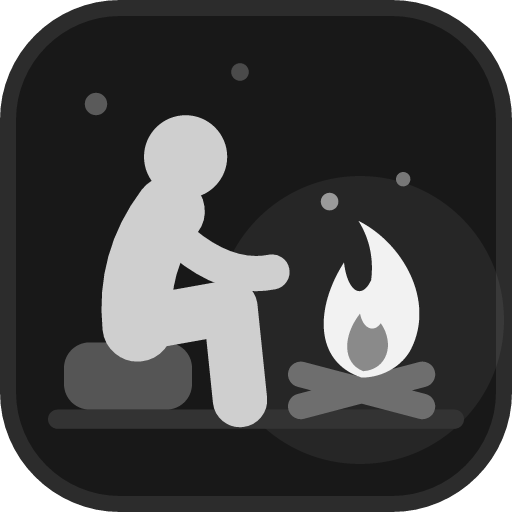
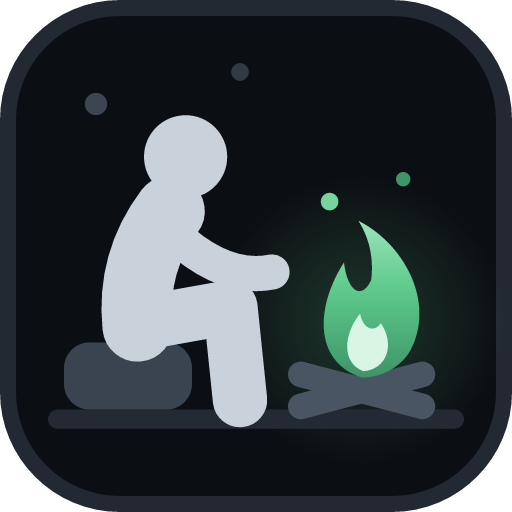
feat(web): cool blue-gray palette with a green accent
Surfaces move to darker cool grays, the accent to a soft green, strings
to a cool blue. New tokens: --primary for the filled button, --chart for
the activity curve, --bg-cursor for the cursor of a flat list. The brand
mark and the app icons take the palette, the flame in shades of the
accent; theme-color and the app colour follow the new surfaces.

Changed region(s): [[0.4375, 0.3125, 0.9688, 0.9062], [0.125, 0.6562, 0.375, 0.8125], [0.1562, 0.1875, 0.2188, 0.2188]]

diff --git a/internal/adapters/web/static/css/60-mr.css b/internal/adapters/web/static/css/60-mr.css
@@ -33,8 +33,8 @@
       display: inline-flex; align-items: center; height: 24px; padding: 0 var(--s3); border-radius: 999px;
       font-weight: 650; color: var(--ink-hi); background: var(--bg-raised); border: 1px solid var(--border-strong);
     }
-    & .show-kv dd.mr-state[data-state="open"] { color: var(--teal); border-color: color-mix(in srgb, var(--teal) 50%, transparent); background: color-mix(in srgb, var(--teal) 10%, transparent); }
-    & .show-kv dd.mr-state[data-state="merged"] { color: var(--teal); }
+    & .show-kv dd.mr-state[data-state="open"] { color: var(--green); border-color: color-mix(in srgb, var(--green) 50%, transparent); background: color-mix(in srgb, var(--green) 10%, transparent); }
+    & .show-kv dd.mr-state[data-state="merged"] { color: var(--green); }
     & .show-kv dd.mr-state[data-state="closed"] { color: var(--red); border-color: color-mix(in srgb, var(--red) 50%, transparent); }
     /* the label of a fact reads as a word before it */
     & .show-kv dd[data-k]::before { content: attr(data-k) " "; color: var(--ink-mute); }
@@ -72,8 +72,8 @@
   .merge-settings { font-size: var(--fs-s); color: var(--ink-dim); }
   .merge-settings h2 { font-size: var(--fs-s); }
 
-  .mr-state[data-state="open"]::before { content: "●\00a0"; color: var(--teal); }
-  .mr-state[data-state="merged"]::before { content: "✓ "; color: var(--teal); }
+  .mr-state[data-state="open"]::before { content: "●\00a0"; color: var(--green); }
+  .mr-state[data-state="merged"]::before { content: "✓ "; color: var(--green); }
   .mr-state[data-state="closed"]::before { content: "✗ "; color: var(--red); }
   .mr-state[data-state="draft"]::before { content: "◌ "; color: var(--ink-dim); }
   /* the description: Markdown as a README, as wide as the header card above;
@@ -164,8 +164,8 @@
     & .btn:disabled { opacity: .5; cursor: not-allowed; }
   }
   .badge[data-state] { display: inline-block; padding: 0 var(--s2); border: 1px solid var(--border-strong); border-radius: var(--r-s); font-weight: 600; color: var(--ink-hi); }
-  .badge[data-state="up_to_date"] { border-color: var(--teal); color: var(--teal); }
-  .badge[data-state="behind"] { border-color: var(--teal-2); }
+  .badge[data-state="up_to_date"] { border-color: var(--green); color: var(--green); }
+  .badge[data-state="behind"] { border-color: var(--green-2); }
   .badge[data-state="conflict"] { border-color: var(--red); color: var(--red); }
   .badge[data-state="checking"] { color: var(--ink-dim); border-style: dashed; }
   .note[role="status"] { color: var(--ink-dim); }
@@ -223,7 +223,7 @@
     & a:hover { background: var(--bg-raised); }
     & .v-who { font-weight: 600; color: var(--ink-hi); overflow: hidden; text-overflow: ellipsis; }
     & .v-label { font-size: var(--fs-xs); font-weight: 600; color: var(--ink-dim); white-space: nowrap; }
-    & li[data-verdict="approve"] .v-label { color: var(--teal); }
+    & li[data-verdict="approve"] .v-label { color: var(--green); }
     & li[data-verdict="approve"] .v-label::before { content: "✓ "; }
     & li[data-verdict="changes_requested"] .v-label { color: var(--red); }
     & li[data-verdict="changes_requested"] .v-label::before { content: "✕ "; }
@@ -280,7 +280,7 @@
     & .c-when:hover { color: var(--ink-hi); text-decoration: underline; }
     & .c-where { font-family: var(--mono); font-size: var(--fs-xs); overflow-wrap: anywhere; }
     & .c-tag { font-size: var(--fs-xs); }
-    & .c-state[data-state="resolved"] { color: var(--teal); border-color: transparent; padding-inline: 0; }
+    & .c-state[data-state="resolved"] { color: var(--green); border-color: transparent; padding-inline: 0; }
     & .c-state[data-state="resolved"]::before { content: "✓"; }
 
     & .c-tools { display: flex; align-items: center; gap: 2px; flex: none; }
@@ -370,13 +370,13 @@
     font-size: var(--fs-xs); font-weight: 600; border-radius: 999px; white-space: nowrap;
     color: var(--ink-dim); border: 1px solid var(--border-strong);
   }
-  .c-verdict[data-verdict="approve"] { color: var(--teal); border-color: color-mix(in srgb, var(--teal) 55%, transparent); background: color-mix(in srgb, var(--teal) 10%, transparent); }
+  .c-verdict[data-verdict="approve"] { color: var(--green); border-color: color-mix(in srgb, var(--green) 55%, transparent); background: color-mix(in srgb, var(--green) 10%, transparent); }
   .c-verdict[data-verdict="changes_requested"] { color: var(--red); border-color: color-mix(in srgb, var(--red) 55%, transparent); background: color-mix(in srgb, var(--red) 10%, transparent); }
   .c-verdict[data-verdict="approve"]::before { content: "✓"; }
   .c-verdict[data-verdict="changes_requested"]::before { content: "✕"; }
 
   #mr-verdict-fact .c-verdict { text-decoration: none; }
-  #mr-verdict-fact .c-verdict[data-verdict="approve"] { color: var(--teal); }
+  #mr-verdict-fact .c-verdict[data-verdict="approve"] { color: var(--green); }
   #mr-verdict-fact .c-verdict[data-verdict="changes_requested"] { color: var(--red); }
 
   /* the forms: a comment, a new merge request */
@@ -418,7 +418,7 @@
       & input { position: absolute; opacity: 0; width: 1px; height: 1px; pointer-events: none; }
       & label:has(:focus-visible) { outline: 2px solid var(--focus); outline-offset: 1px; }
       & label:has(:checked) { background: var(--bg-strong); color: var(--ink-hi); box-shadow: 0 0 0 1px var(--border-strong); }
-      & label[data-verdict="approve"]:has(:checked) { color: var(--teal); box-shadow: 0 0 0 1px color-mix(in srgb, var(--teal) 60%, transparent); }
+      & label[data-verdict="approve"]:has(:checked) { color: var(--green); box-shadow: 0 0 0 1px color-mix(in srgb, var(--green) 60%, transparent); }
       & label[data-verdict="changes_requested"]:has(:checked) { color: var(--red); box-shadow: 0 0 0 1px color-mix(in srgb, var(--red) 60%, transparent); }
     }
   }
@@ -512,8 +512,8 @@
 
   .list.mrs {
     & tr[data-state="open"] .c-state { font-weight: bold; }
-    & tr[data-state="open"] .c-state::before { content: "● "; color: var(--teal); }
-    & tr[data-state="merged"] .c-state::before { content: "✓ "; color: var(--teal); }
+    & tr[data-state="open"] .c-state::before { content: "● "; color: var(--green); }
+    & tr[data-state="merged"] .c-state::before { content: "✓ "; color: var(--green); }
     & tr[data-state="closed"] .c-state::before { content: "✗ "; color: var(--red); }
   }
   #mr-notice:empty { display: none; }
@@ -563,7 +563,7 @@
     & .c-main a:hover { text-decoration: underline; }
     & .j-ref { color: var(--ink-dim); }
     & .j-kind { font-size: var(--fs-xs); color: var(--ink-dim); }
-    & tr:is([data-kind="mr_merged"], [data-kind="release_published"], [data-kind="tag_created"]) .j-kind { color: var(--teal); }
+    & tr:is([data-kind="mr_merged"], [data-kind="release_published"], [data-kind="tag_created"]) .j-kind { color: var(--green); }
     & tr:is([data-kind="mr_closed"], [data-kind="tag_deleted"]) .j-kind { color: var(--red); }
   }
 
@@ -577,10 +577,10 @@
   .timeline { list-style: none; padding: 0; margin: 0; }
   .sys { margin-block: var(--s3); padding: var(--s2) var(--s3); border-left: 2px solid var(--border); color: var(--ink-dim); font-size: var(--fs-s); overflow-wrap: anywhere; }
   .sys-icon { margin-inline-end: var(--s2); }
-  .sys[data-kind="resolved"] .sys-icon { color: var(--teal); }
+  .sys[data-kind="resolved"] .sys-icon { color: var(--green); }
   .sys[data-kind="closed"] .sys-icon { color: var(--red); }
-  .mr-state[data-state="resolved"]::before { content: "✓ "; color: var(--teal); }
-  .mrs tr[data-state="resolved"] .c-state::before { content: "✓ "; color: var(--teal); }
+  .mr-state[data-state="resolved"]::before { content: "✓ "; color: var(--green); }
+  .mrs tr[data-state="resolved"] .c-state::before { content: "✓ "; color: var(--green); }
 
   .c-body { white-space: normal; overflow-wrap: anywhere; }
   /* the counts of the comments heading: the total, then the unresolved */

diff --git a/internal/adapters/web/static/css/00-tokens.css b/internal/adapters/web/static/css/00-tokens.css
@@ -33,8 +33,8 @@
 
 /* Palette: grays, in four surface levels, so that blocks read apart without
    hue. Dark: each level is lighter than the one below it; light: each is
-   whiter. Hue is kept for code, diffs and verdicts, and one accent, the teal
-   of Despair, marks where you are and what is alive: the current tab, the row
+   whiter. Hue is kept for code, diffs and verdicts, and one accent, a
+   green, marks where you are and what is alive: the current tab, the row
    cursor, links in prose, open folders. */
 @layer tokens {
   :root {
@@ -44,47 +44,56 @@
     &[data-theme="light"] { color-scheme: light; }
     &[data-theme="dark"] { color-scheme: dark; }
 
-    /* surfaces, bottom to top */
-    --bg-canvas: light-dark(#f4f4f4, #070707); /* the page */
-    --bg-inset:  light-dark(#f9f9f9, #040404); /* code, fields: sunk into a surface */
-    --bg-surface:light-dark(#ffffff, #0e0e0e); /* cards, header, rail blocks */
-    --bg-raised: light-dark(#eeeeee, #171717); /* hover, buttons, panel rows */
-    --bg-strong: light-dark(#e0e0e0, #232323); /* selected row, pressed button */
-    --bg-overlay:light-dark(#ffffff, #111111); /* dialogs */
-    --backdrop:  light-dark(rgb(0 0 0 / .25), rgb(0 0 0 / .7));
+    /* surfaces, bottom to top: cool neutral grays */
+    --bg-canvas: light-dark(#f6f7f9, #07090c); /* the page */
+    --bg-inset:  light-dark(#f6f7f9, #050608); /* code, fields: sunk into a surface */
+    --bg-surface:light-dark(#ffffff, #0b0e12); /* cards, header, rail blocks */
+    --bg-raised: light-dark(#f0f2f5, #11151b); /* hover, buttons, panel rows */
+    --bg-strong: light-dark(#e4e8ed, #191e25); /* selected row, pressed button */
+    --bg-cursor: light-dark(#f2f4f7, #0a0d11); /* the keyboard cursor of a flat list */
+    --bg-overlay:light-dark(#ffffff, #0f1318); /* dialogs */
+    --backdrop:  light-dark(rgb(15 18 22 / .3), rgb(0 0 0 / .65));
 
-    --border:        light-dark(#e0e0e0, #222222);
-    --border-strong: light-dark(#c6c6c6, #363636);
+    --border:        light-dark(#e1e5ea, #1b2027);
+    --border-strong: light-dark(#cbd1d9, #29303a);
 
-    --ink:      light-dark(#1b1b1b, #dadada);
-    --ink-hi:   light-dark(#000000, #fafafa);
-    --ink-dim:  light-dark(#4a4a4a, #a8a8a8);
-    --ink-mute: light-dark(#5f5f5f, #8f8f8f);
-    --focus:    light-dark(#000000, #ffffff);
-    --on-ink:   light-dark(#ffffff, #050505); /* text on a filled ink button */
+    --ink:      light-dark(#1d2127, #d5dae1);
+    --ink-hi:   light-dark(#0b0d10, #f1f3f6);
+    --ink-dim:  light-dark(#4f5762, #9aa2ad);
+    --ink-mute: light-dark(#5a626d, #7d8591);
+    --focus:    light-dark(#0b0d10, #f1f3f6);
+    --on-ink:   light-dark(#ffffff, #0b0d10); /* text on a filled ink button */
 
-    /* Colour, sparingly, from the owner's Despair theme. Light values are the
-       same hues darkened to AA. */
-    --teal:    light-dark(#2f6b6b, #7db5b5);
-    --accent:  var(--teal); /* the one accent of the interface */
-    --teal-2:  light-dark(#355f5f, #5a8585);
-    --red:     light-dark(#a8404b, #d96c75);
-    --rose:    light-dark(#6b6570, #a7a2a9);
-    --amber:   light-dark(#7a5c10, #d4b062); /* Markdown warnings only */
+    /* Colour, sparingly: one green accent marks where you are and what is
+       alive. Light values are the same hues darkened to AA. */
+    --green:   light-dark(#186d44, #5cc98a);
+    --accent:  var(--green); /* the one accent of the interface */
+    --green-2: light-dark(#2d6650, #4aa676);
+    --red:     light-dark(#a52a35, #ef6a72);
+    --blue:    light-dark(#3d5f8a, #9db8d9); /* strings: a cool blue */
+    --amber:   light-dark(#7a5c10, #e0bd62); /* Markdown warnings only */
+
+    /* the filled primary button */
+    --primary:    var(--accent);
+    --primary-hi: light-dark(#145c39, #74d69c);
+    --on-primary: light-dark(#ffffff, #05140c);
+
+    /* the activity curve of the repository list */
+    --chart: var(--accent);
 
     --syn-plain:   var(--ink);
-    --syn-keyword: var(--teal);
-    --syn-string:  var(--rose);
-    --syn-comment: light-dark(#5c5f63, #6e7277);
-    --syn-number:  var(--teal-2);
+    --syn-keyword: var(--green);
+    --syn-string:  var(--blue);
+    --syn-comment: light-dark(#5a626d, #7a8290);
+    --syn-number:  var(--green-2);
     --syn-func:    var(--ink-hi);
-    --syn-type:    var(--teal-2);
+    --syn-type:    var(--green-2);
     --syn-punct:   var(--ink-dim);
 
-    --add: light-dark(#e1efef, #0d1a1a);
-    --del: light-dark(#f5e3e5, #1f0f11);
-    --add-hi: light-dark(#c4e0e0, #143030); /* the gutter of an added line */
-    --del-hi: light-dark(#ecc9cd, #3a1a1e);
+    --add: light-dark(#e3f4ea, #0d1a14);
+    --del: light-dark(#fbe6e7, #211216);
+    --add-hi: light-dark(#c3e8d1, #153223); /* the gutter of an added line */
+    --del-hi: light-dark(#f2c7ca, #3e1c22);
 
     --font: "Mona Sans", system-ui, sans-serif;
     --mono: "Monaspace Neon", ui-monospace, "Cascadia Mono", "DejaVu Sans Mono", Menlo, Consolas, monospace;

diff --git a/internal/adapters/web/static/css/65-ci.css b/internal/adapters/web/static/css/65-ci.css
@@ -5,14 +5,14 @@
     display: inline-block; width: 14px; height: 14px; margin-right: var(--s1); vertical-align: -2px;
     border: 2px solid var(--ink-dim); border-radius: 50%; box-sizing: border-box; flex: none;
   }
-  .ck-ok { background: var(--teal); border-color: var(--teal); }
+  .ck-ok { background: var(--green); border-color: var(--green); }
   .ck-bad { background: var(--red); border-color: var(--red); border-radius: 3px; transform: rotate(45deg) scale(.85); }
   .ck-cancelled { border-style: dashed; }
   .ck-skipped { border-color: var(--border-strong); background: var(--bg-raised); }
   .ck-queued { border-style: dotted; }
-  .ck-running { border-color: var(--teal); border-top-color: transparent; animation: ck-spin 1s linear infinite; }
+  .ck-running { border-color: var(--green); border-top-color: transparent; animation: ck-spin 1s linear infinite; }
   @keyframes ck-spin { to { transform: rotate(360deg); } }
-  @media (prefers-reduced-motion: reduce) { .ck-running { animation: none; border-top-color: var(--teal); } }
+  @media (prefers-reduced-motion: reduce) { .ck-running { animation: none; border-top-color: var(--green); } }
 
   .ck-sum { display: inline-flex; align-items: center; gap: var(--s1); margin-left: var(--s2); font-size: var(--fs-xs); white-space: nowrap; }
   /* the recent runs of the summary rail */
@@ -72,7 +72,7 @@
   }
   .annot-failure { border-color: var(--red); }
   .annot-warning { border-style: dashed; border-color: var(--ink-dim); }
-  .annot-notice { border-color: var(--teal); }
+  .annot-notice { border-color: var(--green); }
   .annot p { margin: 0; }
   .annot-step { flex-basis: 100%; font-weight: 700; }
   .annot:has(.annot-step) { flex-wrap: wrap; }
@@ -84,7 +84,7 @@
   .an { display: inline-block; flex: none; width: 14px; height: 14px; margin-top: 2px; border: 2px solid var(--ink-dim); box-sizing: border-box; }
   .an-failure { background: var(--red); border-color: var(--red); border-radius: 3px; transform: rotate(45deg) scale(.85); }
   .an-warning { border-radius: 50% 50% 0 0; border-style: dashed; }
-  .an-notice { border-radius: 50%; border-color: var(--teal); }
+  .an-notice { border-radius: 50%; border-color: var(--green); }
   .summaries { margin: var(--s5) 0 0; }
   .summary { padding: var(--s3) var(--s4); background: var(--bg-surface); border: 1px solid var(--border); border-radius: var(--r); }
   .summary + .summary { margin-top: var(--s3); }

diff --git a/internal/adapters/web/static/css/50-code.css b/internal/adapters/web/static/css/50-code.css
@@ -112,9 +112,9 @@
        change down the left edge */
     & tr.add td.ln, & td.ln.add { background: var(--add-hi); }
     & tr.del td.ln, & td.ln.del { background: var(--del-hi); }
-    & .add.m, & tr.add .m { color: var(--teal); font-weight: bold; }
+    & .add.m, & tr.add .m { color: var(--green); font-weight: bold; }
     & .del.m, & tr.del .m { color: var(--red); font-weight: bold; }
-    & tr.add .ln, & .ln.add { color: var(--teal); }
+    & tr.add .ln, & .ln.add { color: var(--green); }
     & tr.del .ln, & .ln.del { color: var(--red); }
     & .none { background: var(--paper-alt); }
   }
@@ -147,7 +147,7 @@
     & a[aria-current="true"] { background: var(--row); border-color: var(--ink-mute); }
     & a[aria-current="true"] .p { font-weight: bold; color: var(--ink-hi); }
     & .st { color: var(--ink-mute); font-weight: bold; }
-    & .st[data-st="A"] { color: var(--teal); }
+    & .st[data-st="A"] { color: var(--green); }
     & .st[data-st="D"] { color: var(--red); }
     & .nm { overflow: hidden; white-space: nowrap; display: flex; min-width: 0; }
     /* the name gives way last: the directory shrinks first, down to its
@@ -204,7 +204,7 @@
 }
 
 @layer components {
-  /* counts and bars: + in teal, - in red, everywhere a change is summarised */
-  .plus { color: var(--teal); }
+  /* counts and bars: + in green, - in red, everywhere a change is summarised */
+  .plus { color: var(--green); }
   .minus { color: var(--red); }
 }

diff --git a/internal/adapters/web/static/css/40-summary.css b/internal/adapters/web/static/css/40-summary.css
@@ -22,7 +22,7 @@
   .card-h.doc-tabs {
     display: flex; flex-wrap: wrap; gap: var(--s4);
     & a { margin-left: 0; color: var(--ink-dim); }
-    & a[aria-current] { color: var(--teal); text-decoration: underline; text-underline-offset: 5px; }
+    & a[aria-current] { color: var(--green); text-decoration: underline; text-underline-offset: 5px; }
   }
 
   /* rendered Markdown */
@@ -57,14 +57,14 @@
     & blockquote { padding-left: var(--s4); border-left: 3px solid color-mix(in srgb, var(--accent) 45%, var(--border-strong)); color: var(--ink-dim); }
     /* GitHub alerts: > [!NOTE], [!TIP], [!IMPORTANT], [!WARNING], [!CAUTION] */
     & .md-alert {
-      --alert: var(--teal);
+      --alert: var(--green);
       margin-top: var(--s4); padding: var(--s2) var(--s4);
       border-left: 3px solid var(--alert); border-radius: 0 var(--r-s) var(--r-s) 0;
       background: color-mix(in srgb, var(--alert) 7%, transparent);
       & > .md-alert-title { display: flex; align-items: center; gap: var(--s2); margin-top: 0; font-weight: 600; color: var(--alert); }
       & > :nth-child(2) { margin-top: var(--s1); }
     }
-    & .md-alert-tip { --alert: var(--rose); }
+    & .md-alert-tip { --alert: var(--blue); }
     & .md-alert-important { --alert: var(--ink-hi); }
     & .md-alert-warning { --alert: var(--amber); }
     & .md-alert-caution { --alert: var(--red); }

diff --git a/internal/adapters/web/static/css/25-panel.css b/internal/adapters/web/static/css/25-panel.css
@@ -41,7 +41,7 @@
     }
     & li a:hover, & li a:focus-visible { background: var(--bg-raised); color: var(--ink-hi); }
     & li a[aria-current] { font-weight: 700; color: var(--ink-hi); box-shadow: inset 2px 0 0 var(--accent); }
-    & .mark { display: inline-block; width: 1ch; color: var(--teal); }
+    & .mark { display: inline-block; width: 1ch; color: var(--green); }
   }
 
   .cmd-list {
@@ -55,7 +55,7 @@
     & .k { flex: none; font-size: var(--fs-xs); color: var(--ink-mute); }
     & .dir { color: var(--ink-dim); }
     & strong { color: var(--ink-hi); font-weight: 700; }
-    & mark { background: none; color: var(--teal); font-weight: 700; text-decoration: underline; }
+    & mark { background: none; color: var(--green); font-weight: 700; text-decoration: underline; }
   }
 
   .keys {
@@ -70,7 +70,7 @@
   .keys-pref {
     flex: none; padding: var(--s3) var(--s4) 0;
     & label { display: flex; align-items: center; gap: var(--s2); cursor: pointer; }
-    & input[type=checkbox] { width: 16px; height: 16px; flex: none; accent-color: var(--teal); }
+    & input[type=checkbox] { width: 16px; height: 16px; flex: none; accent-color: var(--green); }
     & p { font-size: var(--fs-s); margin-top: var(--s1); }
   }
 }

diff --git a/internal/adapters/web/static/css/80-live.css b/internal/adapters/web/static/css/80-live.css
@@ -6,7 +6,7 @@
   .live-slot:empty { position: absolute; width: 1px; height: 1px; overflow: hidden; clip-path: inset(50%); }
   .live-slot:not(:empty) {
     padding: var(--s3) var(--s4); font-weight: 700;
-    background: var(--bg-surface); border: 1px solid var(--teal); border-radius: var(--r-s);
+    background: var(--bg-surface); border: 1px solid var(--green); border-radius: var(--r-s);
   }
   /* A deferred MR refresh must not insert height above a long diff. */
   #mr-refresh-status:has(a) {

diff --git a/internal/adapters/web/static/css/56-chroma.css b/internal/adapters/web/static/css/56-chroma.css
@@ -1,6 +1,6 @@
 /* Syntax colours of the code view. Generated by scripts/chroma-css.go from
    chroma's token classes; the colours are the --syn-* properties of
-   00-tokens.css (the Despair hues, dark and light), none is defined here. */
+   00-tokens.css (the palette hues, dark and light), none is defined here. */
 @layer components {
   .chroma { color: var(--syn-plain); }
   .chroma .c { color: var(--syn-comment); font-style: italic }

diff --git a/internal/adapters/web/shell_templ.go b/internal/adapters/web/shell_templ.go
@@ -45,7 +45,7 @@ func Shell(l Layout, rail templ.Component) templ.Component {
 		if templ_7745c5c3_Err != nil {
 			return templ_7745c5c3_Err
 		}
-		templ_7745c5c3_Err = templruntime.WriteString(templ_7745c5c3_Buffer, 2, "</title><meta name=\"theme-color\" data-scheme=\"light\" media=\"(prefers-color-scheme: light)\" content=\"#ffffff\"><meta name=\"theme-color\" data-scheme=\"dark\" media=\"(prefers-color-scheme: dark)\" content=\"#0c0c0c\"><meta name=\"apple-mobile-web-app-title\" content=\"ermite\"><link rel=\"icon\" type=\"image/svg+xml\" href=\"")
+		templ_7745c5c3_Err = templruntime.WriteString(templ_7745c5c3_Buffer, 2, "</title><meta name=\"theme-color\" data-scheme=\"light\" media=\"(prefers-color-scheme: light)\" content=\"#ffffff\"><meta name=\"theme-color\" data-scheme=\"dark\" media=\"(prefers-color-scheme: dark)\" content=\"#0b0e12\"><meta name=\"apple-mobile-web-app-title\" content=\"ermite\"><link rel=\"icon\" type=\"image/svg+xml\" href=\"")
 		if templ_7745c5c3_Err != nil {
 			return templ_7745c5c3_Err
 		}

diff --git a/scripts/chroma-css.go b/scripts/chroma-css.go
@@ -4,7 +4,7 @@
 
 // chroma-css writes internal/adapters/web/static/css/56-chroma.css: the
 // chroma token classes mapped to the --syn-* custom properties of the design
-// tokens (the Despair hues, dark and light). Colours are not in the file, so
+// tokens (the palette hues, dark and light). Colours are not in the file, so
 // the theme follows the colour scheme; only bold and italic come from chroma
 // (its "bw" style, as in the mockup).
 //
@@ -74,7 +74,7 @@ func main() {
 
 	fmt.Println("/* Syntax colours of the code view. Generated by scripts/chroma-css.go from")
 	fmt.Println("   chroma's token classes; the colours are the --syn-* properties of")
-	fmt.Println("   00-tokens.css (the Despair hues, dark and light), none is defined here. */")
+	fmt.Println("   00-tokens.css (the palette hues, dark and light), none is defined here. */")
 	fmt.Println("@layer components {")
 	fmt.Println("  .chroma { color: var(--syn-plain); }")
 	for _, c := range classes {

diff --git a/internal/adapters/web/assets.go b/internal/adapters/web/assets.go
@@ -207,7 +207,7 @@ type manifestIcon struct {
 
 // appColor is the dark canvas: the splash screen and the bar of the installed
 // app (the pages follow the system theme; the manifest takes one colour).
-const appColor = "#050505"
+const appColor = "#07090c"
 
 // loadApp adds the app icons and the manifest, which names them by their
 // hashed URLs.
